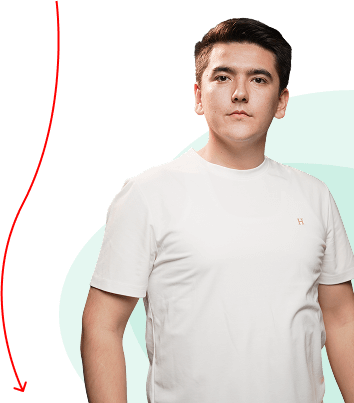
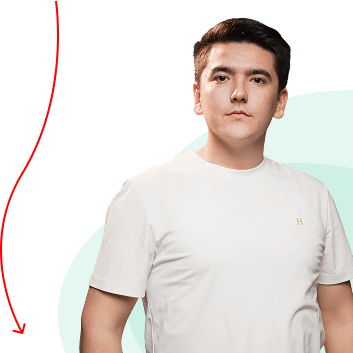
commit

diff --git a/index.html b/index.html
@@ -43,7 +43,7 @@
       <div class="flex flex-col 1100px:hidden relative">
         <div class="text-[22px] 800px:text-[24px] leading-[1] text-center mb-[16px] mx-[10px]">Qadamlarni <span class="text-[#009F48] font-[500]">BEPUL</span> o'rganing</div>
 
-        <picture class="block w-full mx-auto aspect-[353/403] relative ml-[10px]">
+        <picture class="block w-full mx-auto aspect-square relative ml-[10px]">
           <source
             srcset="img/mentor@2x.webp 2x, img/mentor@1x.webp 1x"
             type="image/webp"
